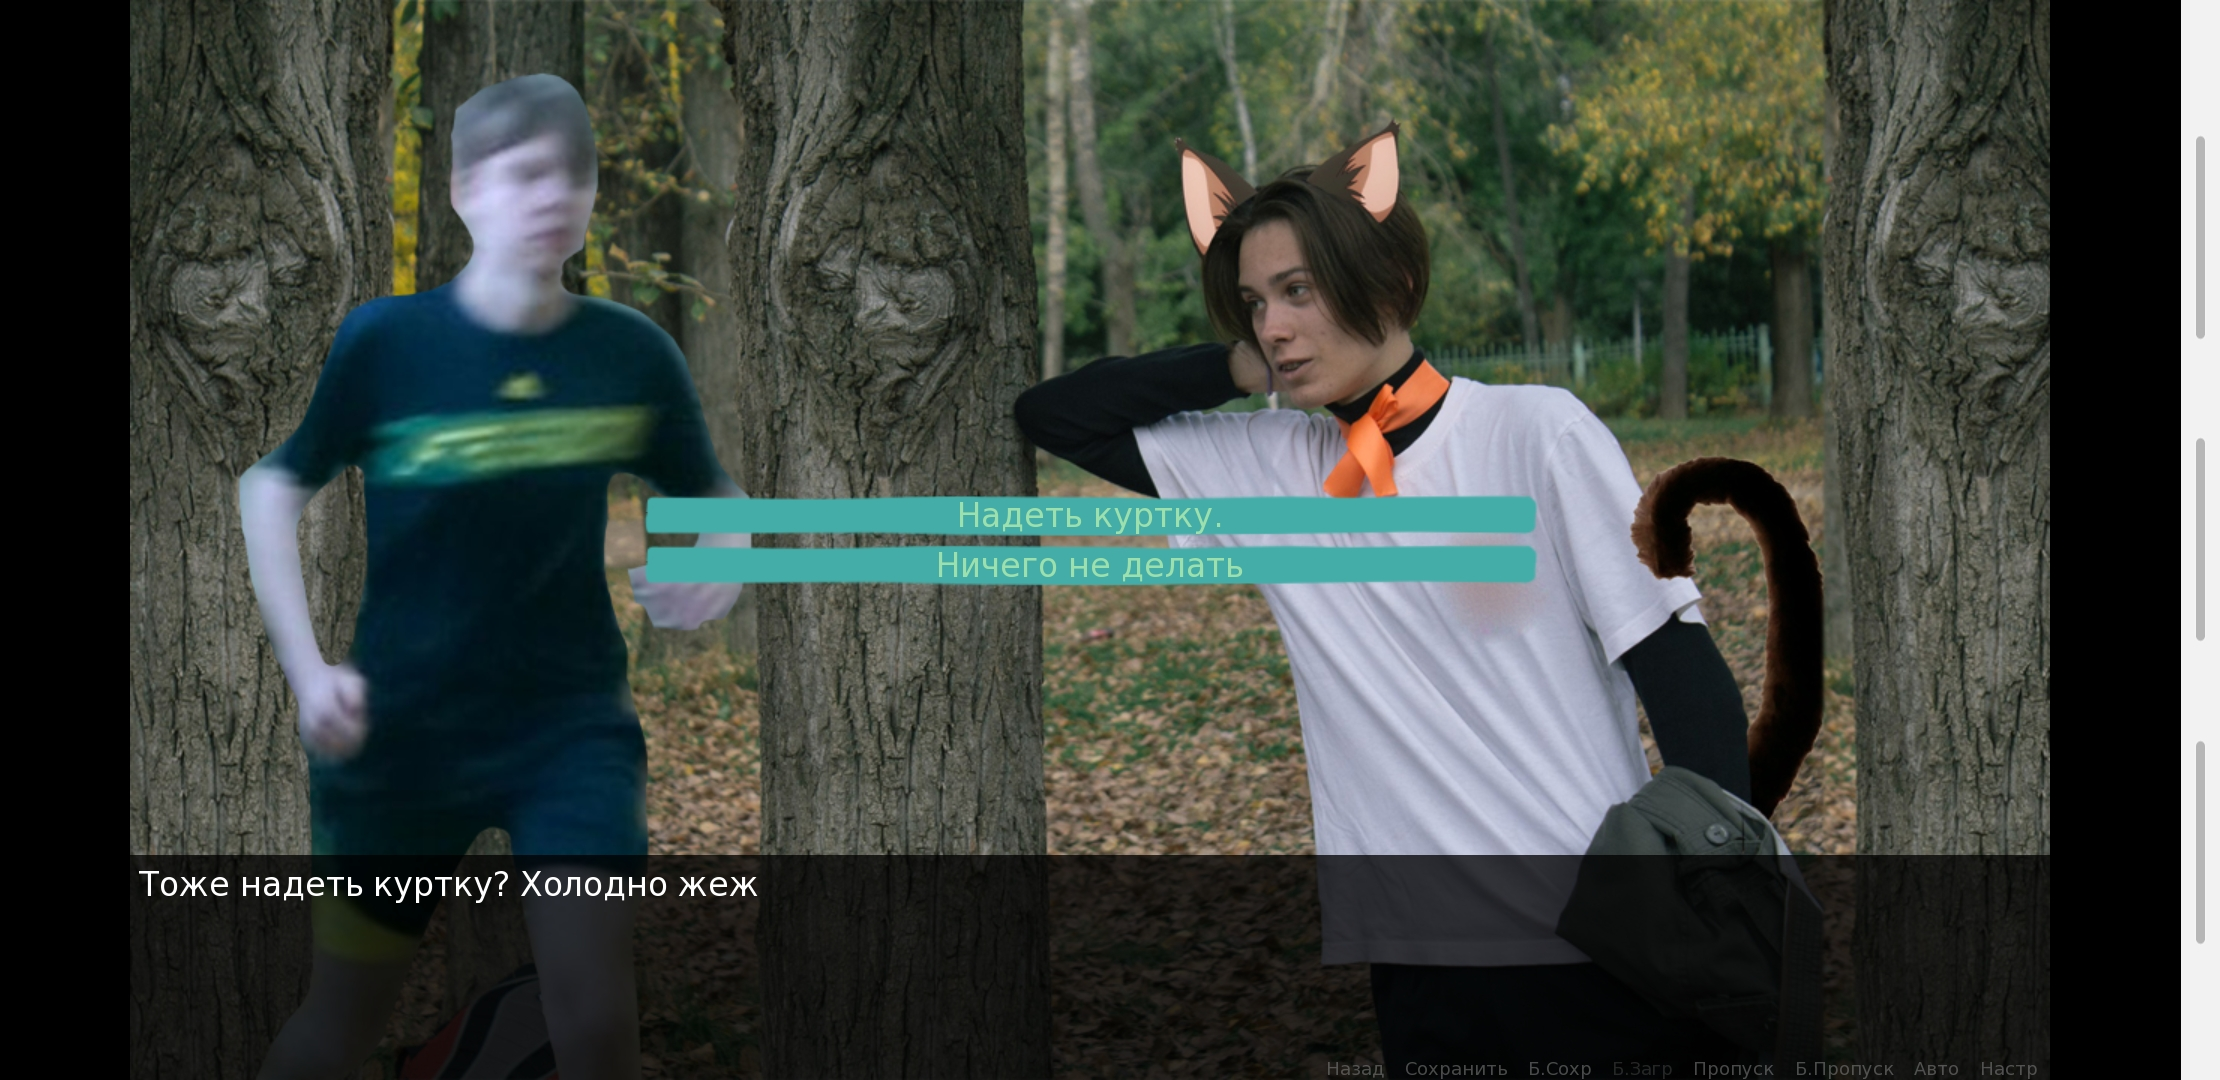
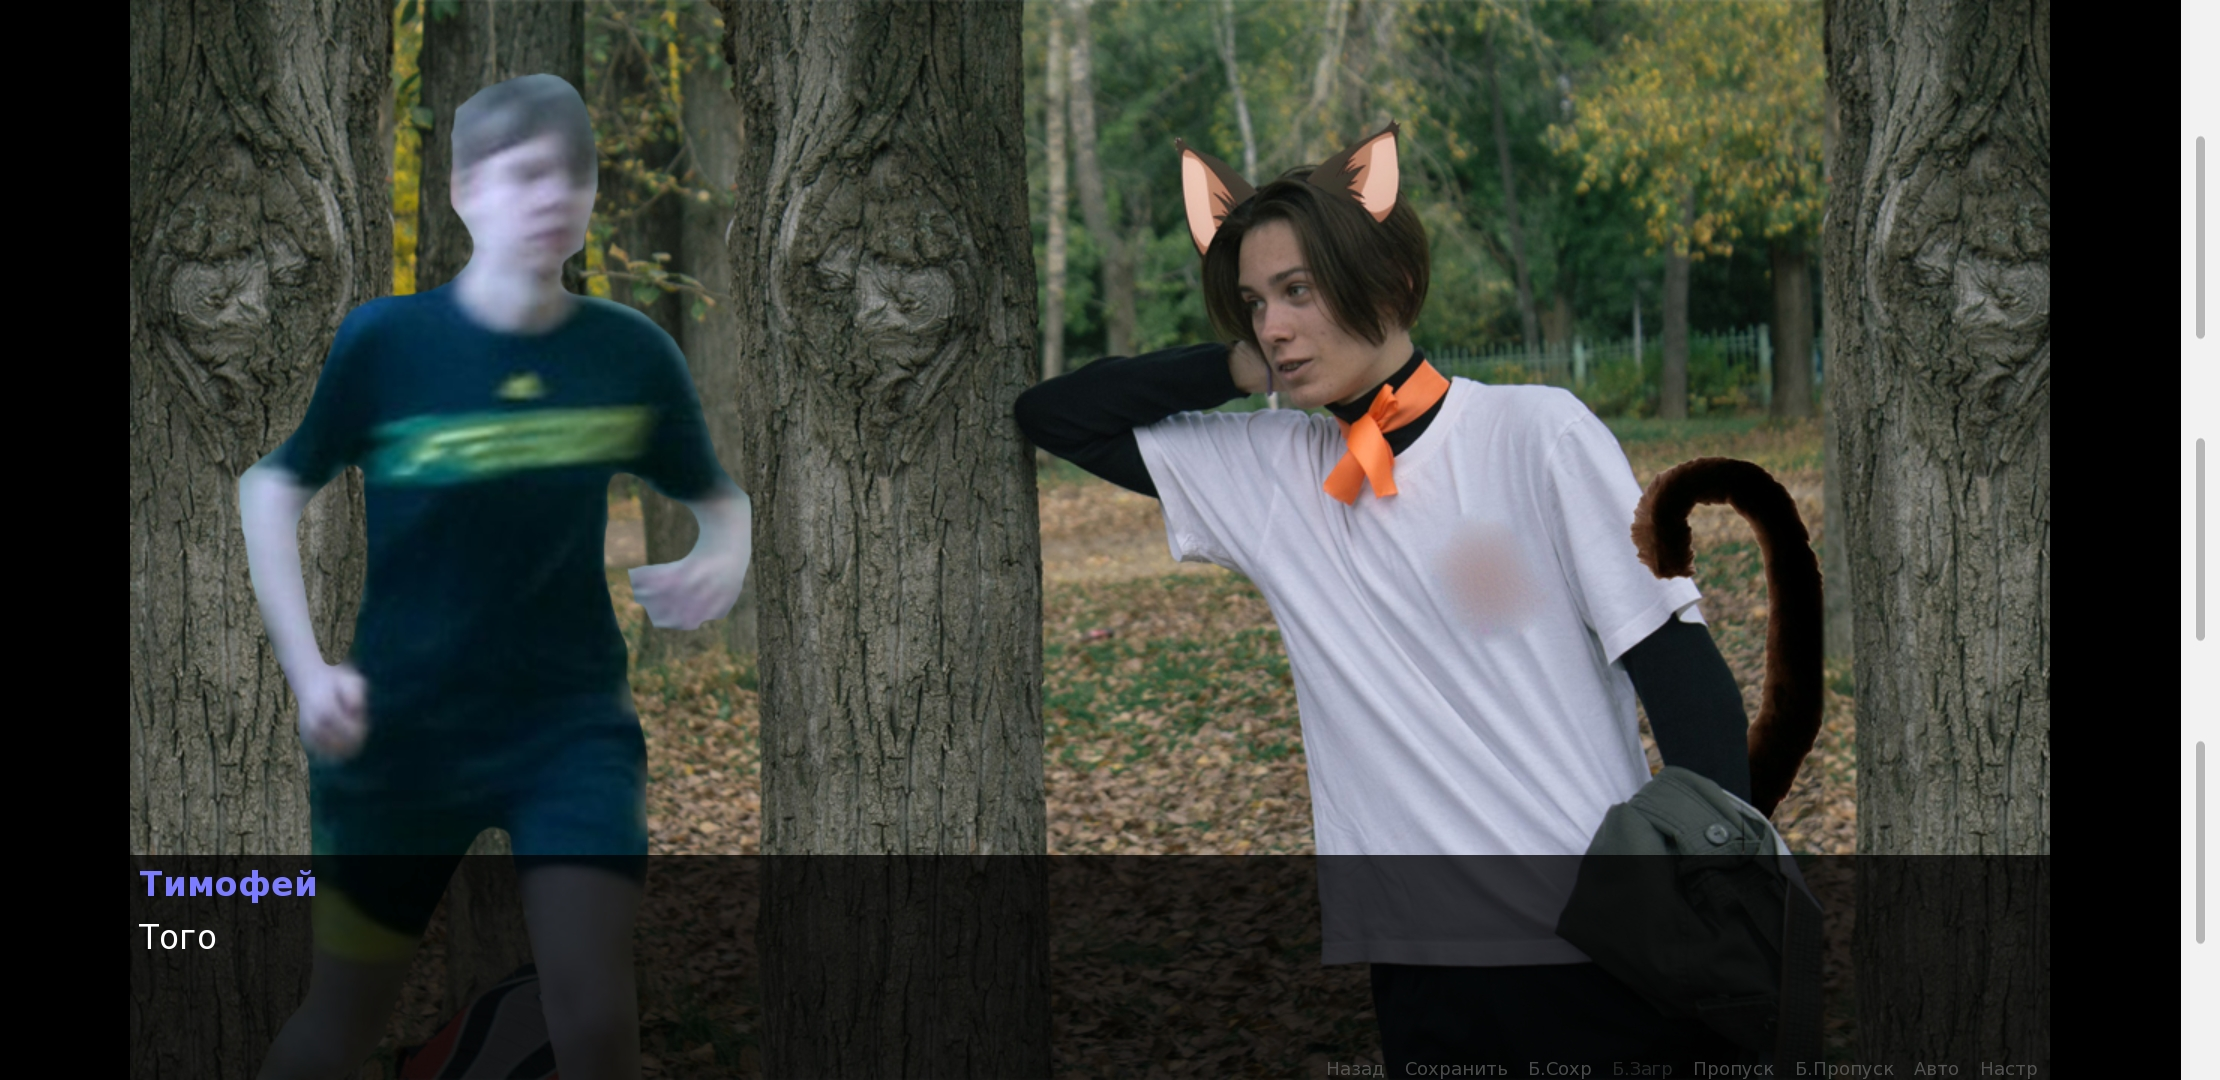
Add files via upload
Playable verion

Changed region(s): [[0.2797, 0.4583, 0.7149, 0.55], [0.0622, 0.7944, 0.3419, 0.8556], [0.0622, 0.8556, 0.0932, 0.8861]]

diff --git a/nowel.py b/nowel.py
@@ -1,6 +1,3 @@
-#!/usr/bin/python3
-# -*- coding: utf-8 -*-
-import getch as g
 import sys
 from PyQt5.QtWidgets import (QWidget, QHBoxLayout,
                              QLabel, QApplication, QMainWindow)
@@ -17,13 +14,8 @@ class Example(QMainWindow):
         self.initUI()
 
     def initUI(self):
-        # hbox = QHBoxLayout(self)
         pixmap = QPixmap('{}.jpg'.format(str(self.index)))
-        # self.resize(pixmap.width(), pixmap.height())
         self.lbl.setPixmap(pixmap.scaled(1024, 768))
-
-        # hbox.addWidget(self.lbl)
-        # self.setLayout(hbox)
         self.setWindowTitle('First picture')
         self.show()
 
@@ -31,10 +23,61 @@ class Example(QMainWindow):
         pixmap = QPixmap('{}.jpg'.format(str(self.index)))
         self.lbl.setPixmap(pixmap.scaled(1024, 768))
 
+    def typeEvent(self, par=0):
+        if self.index == -1:
+            self.index = 15
+            return
+
+        if self.index == -2:
+            self.index = 14
+            return
+
+        if self.index == 8:
+            if par == 1:
+                self.index += 1
+            if par == 2:
+                self.index = -1
+            if par == 3:
+                self.index = -2
+            return
+
+        if self.index == 30:
+            if par == 1:
+                self.index += 1
+            if par == 2:
+                self.index = -18
+            return
+
+        if self.index == 35:
+            if par == 1:
+                self.index += 1
+            if par == 2:
+                self.index = -26
+            return
+
+        if self.index == -21:
+            self.index = -15
+            return
+
+        if self.index == -8:
+            self.index = 48
+            return
+
+        self.index += 1
+
     def keyPressEvent(self, event):
-        if event.text() == 'w':
-            # print('kek')
-            self.index += 1
+        if event.text() == ' ':
+            self.typeEvent()
+            self.UpdatePixmap()
+            return
+
+        if event.text() == '1':
+            self.typeEvent(1)
+        if event.text() == '2':
+            self.typeEvent(2)
+        if event.text() == '3':
+            self.typeEvent(3)
+
         self.UpdatePixmap()
 
 
